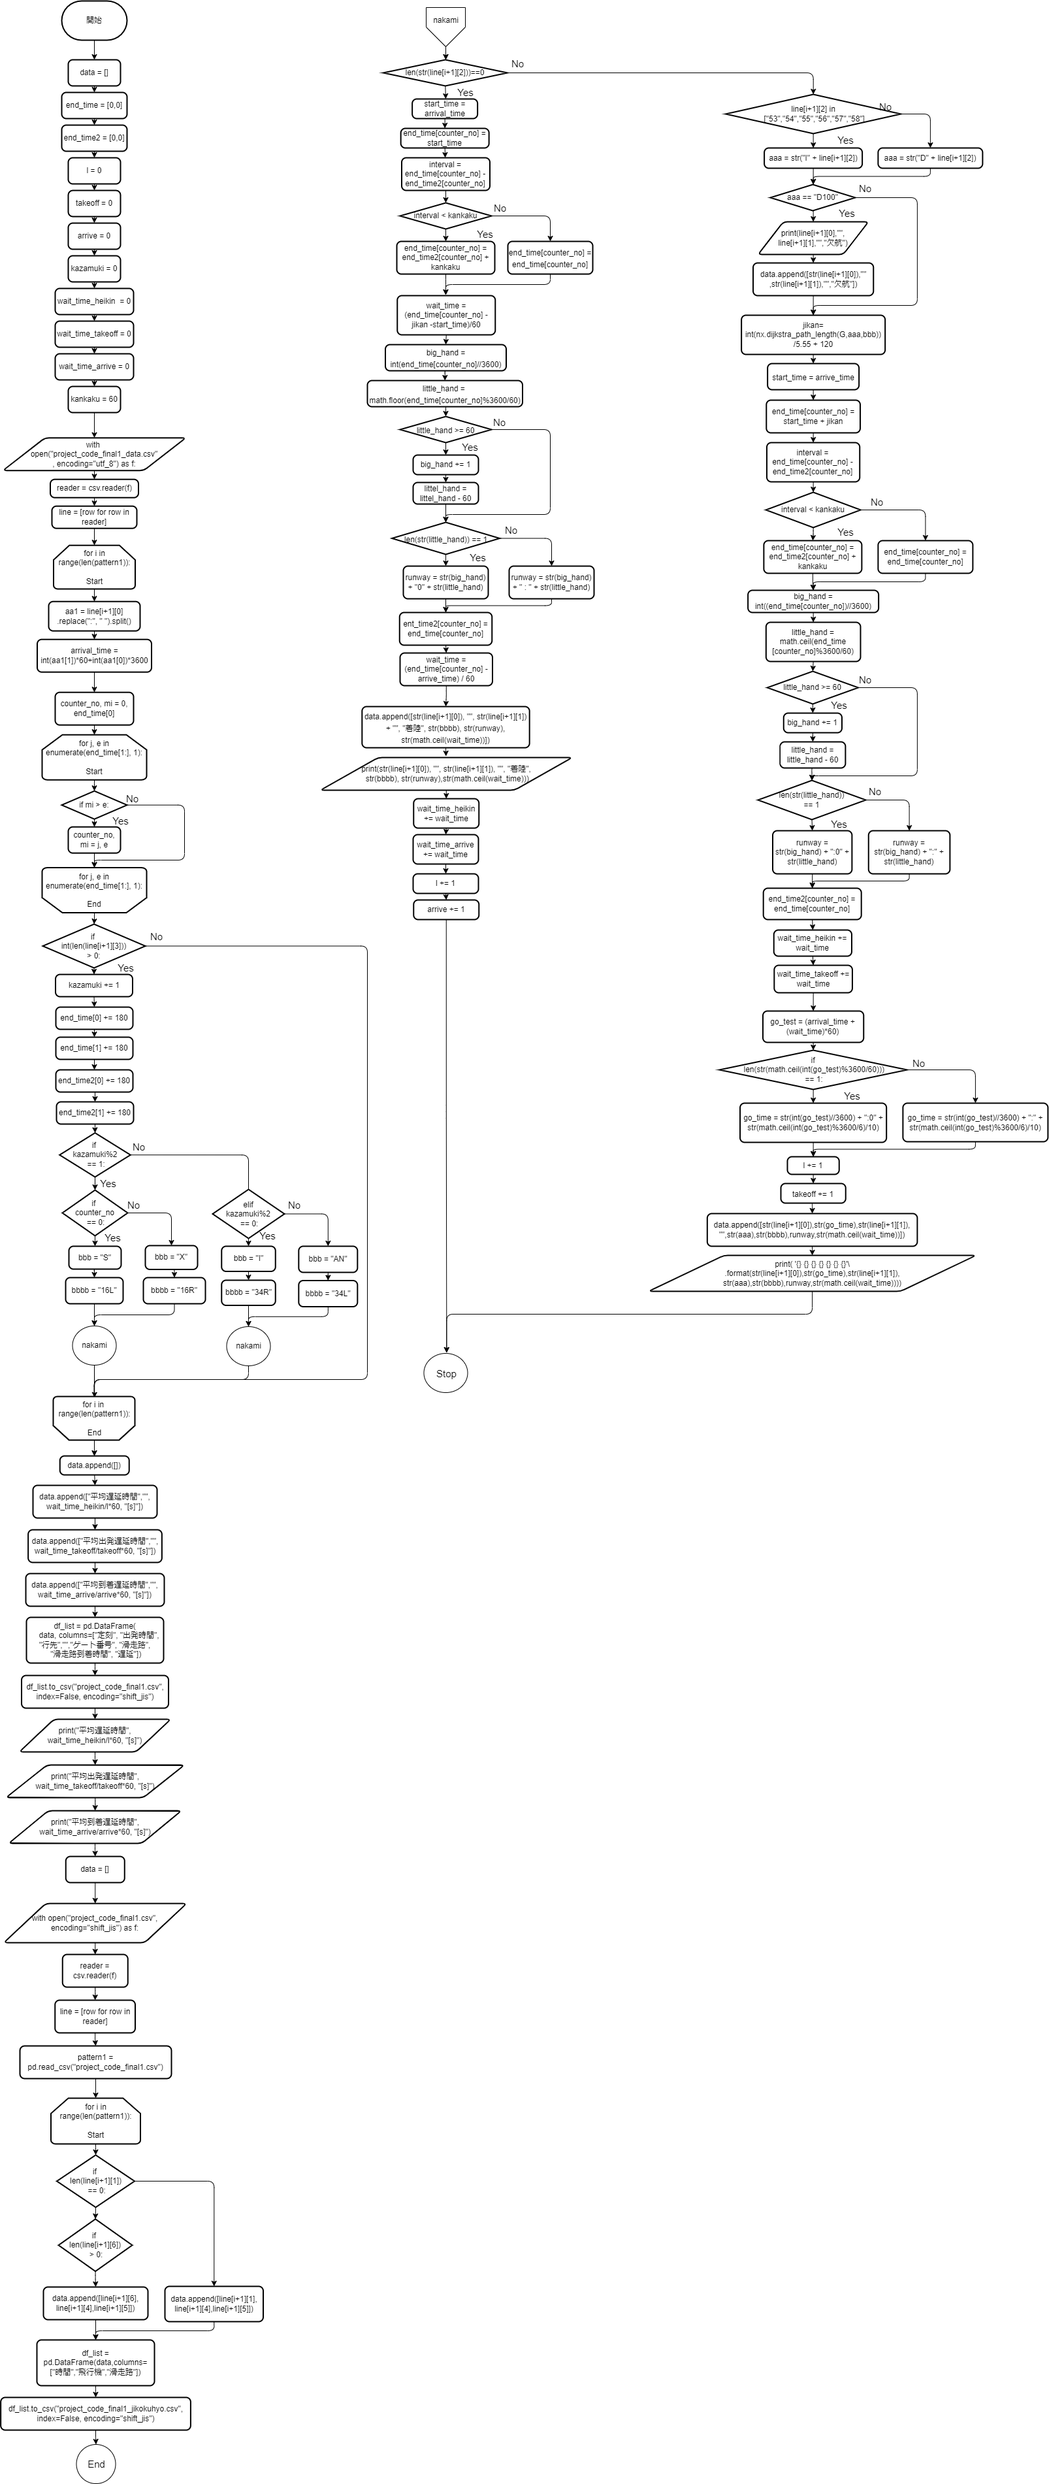
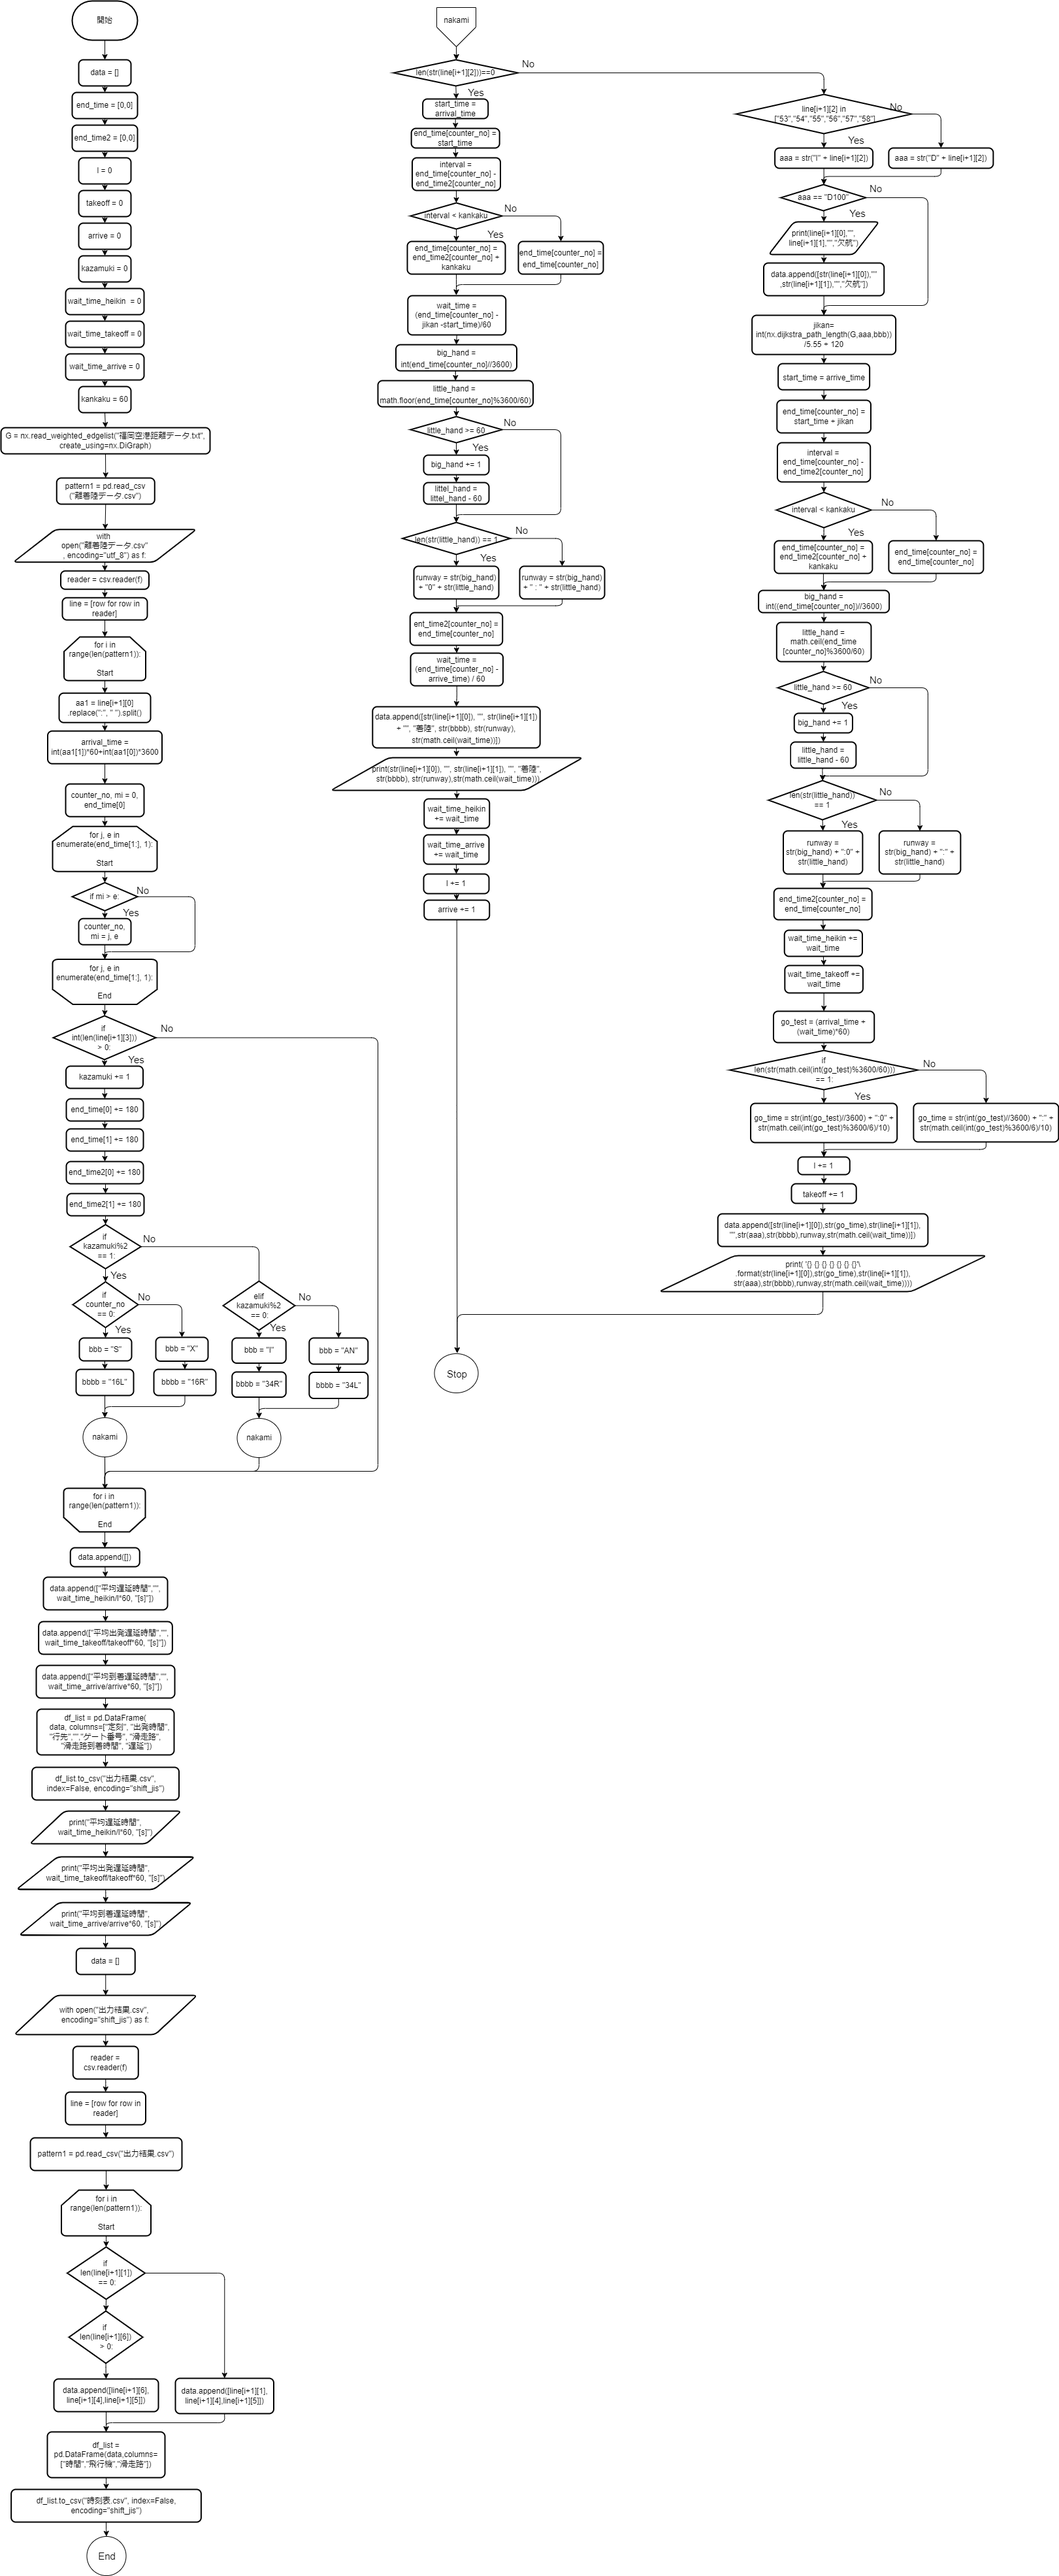
aaa

diff --git a/最終コード.py b/最終コード.py
@@ -16,7 +16,7 @@ wait_time_arrive = 0
 
 kankaku = 60
 
-G = nx.read_weighted_edgelist("dijkstra_data2.txt", create_using=nx.DiGraph)
+G = nx.read_weighted_edgelist("福岡空港距離データ.txt", create_using=nx.DiGraph)
 pattern1 = pd.read_csv("離着陸データ.csv")
 
 def nakami():
